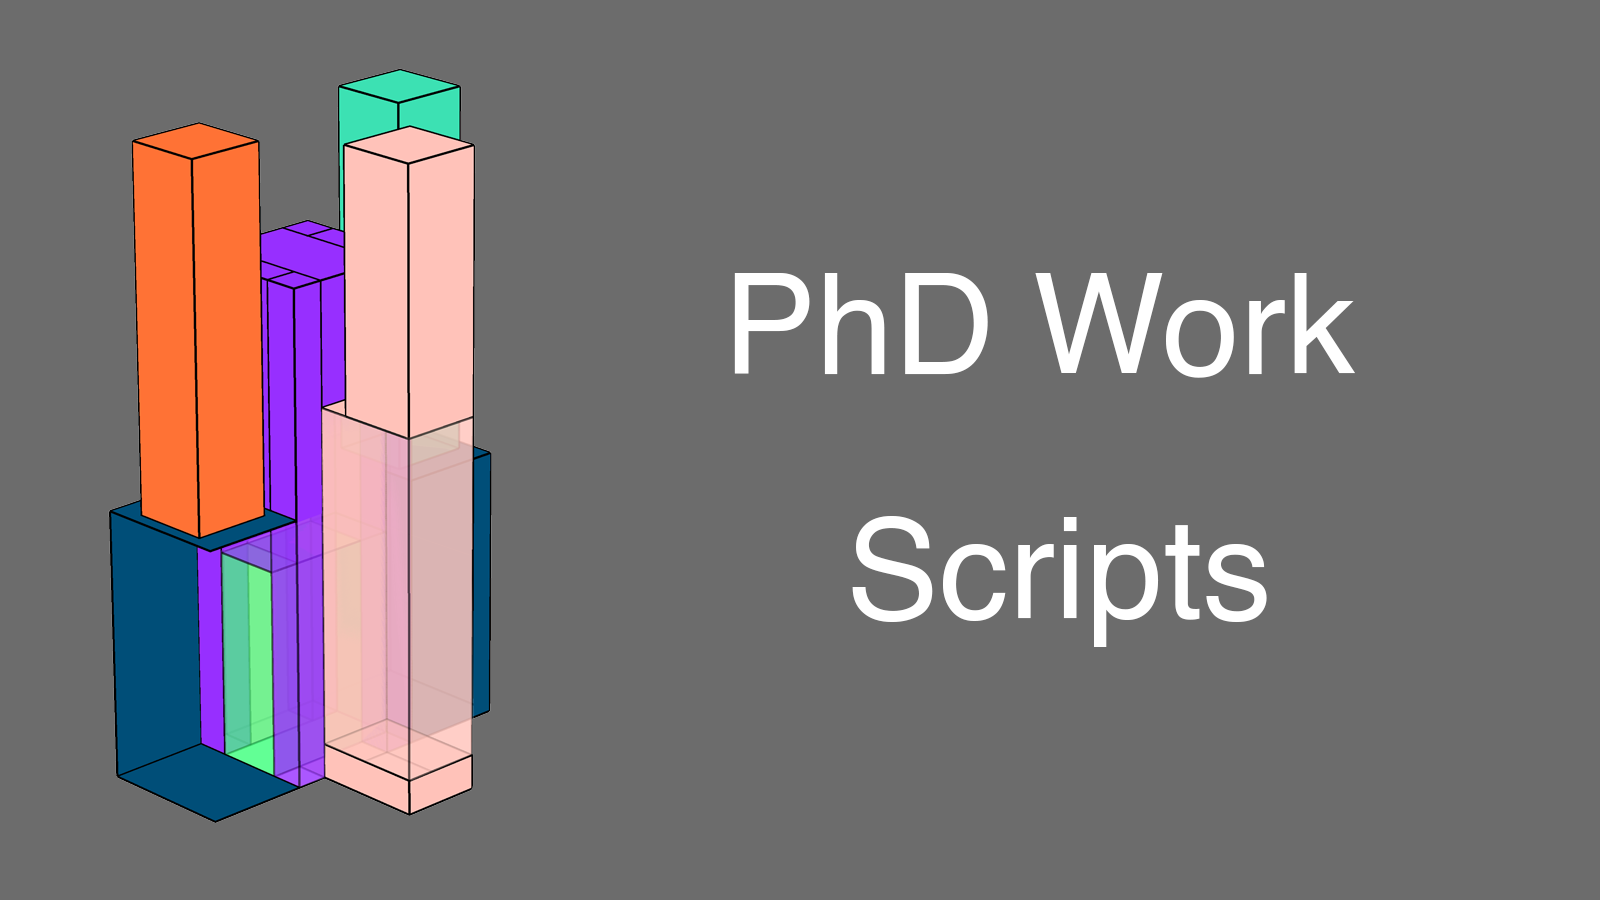
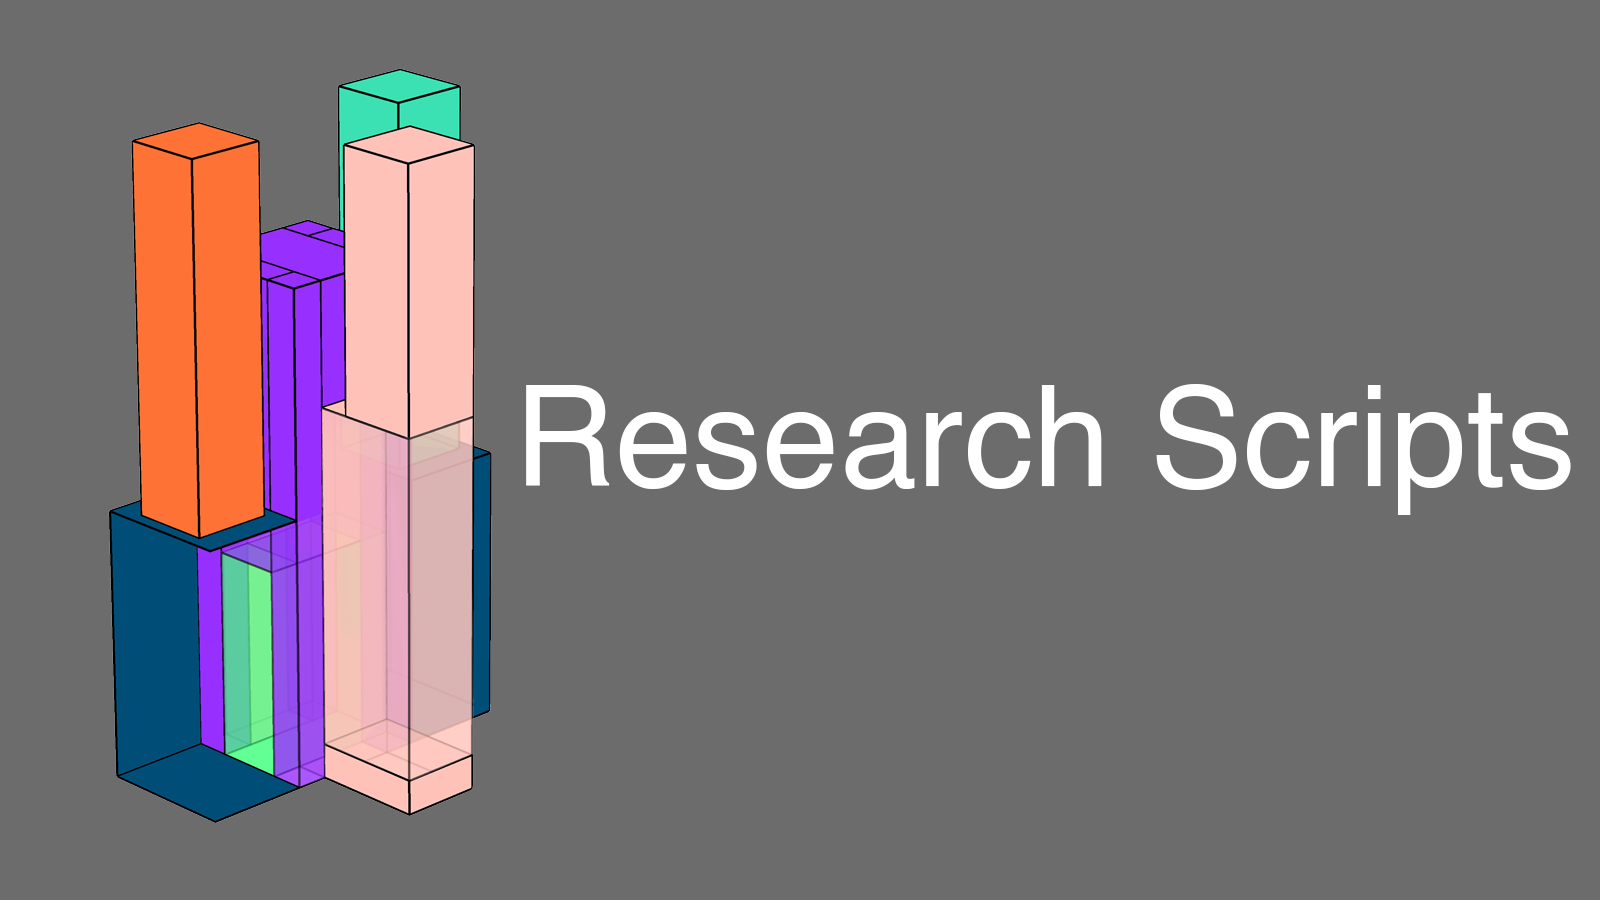
Updated research script picture and name

Changed region(s): [[0.3125, 0.28, 1.0, 0.7156]]

diff --git a/index.html b/index.html
@@ -175,7 +175,7 @@
 						<article class="item border">
 							<a href="https://github.com/Adan-Wang/PhdScripts" class="image fit"><img src="images/ScienceScripts.png" alt="" /></a>
 							<header>
-								<h3>MATLAB Scripts</h3>
+								<h3>[MATLAB] Research Scripts</h3>
 							</header>
 						</article>
 					</div>
